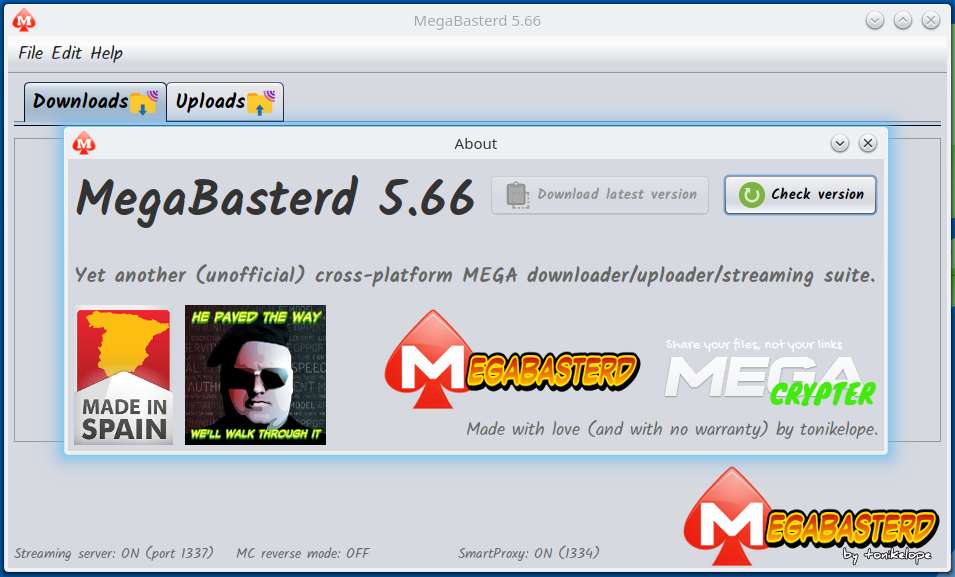
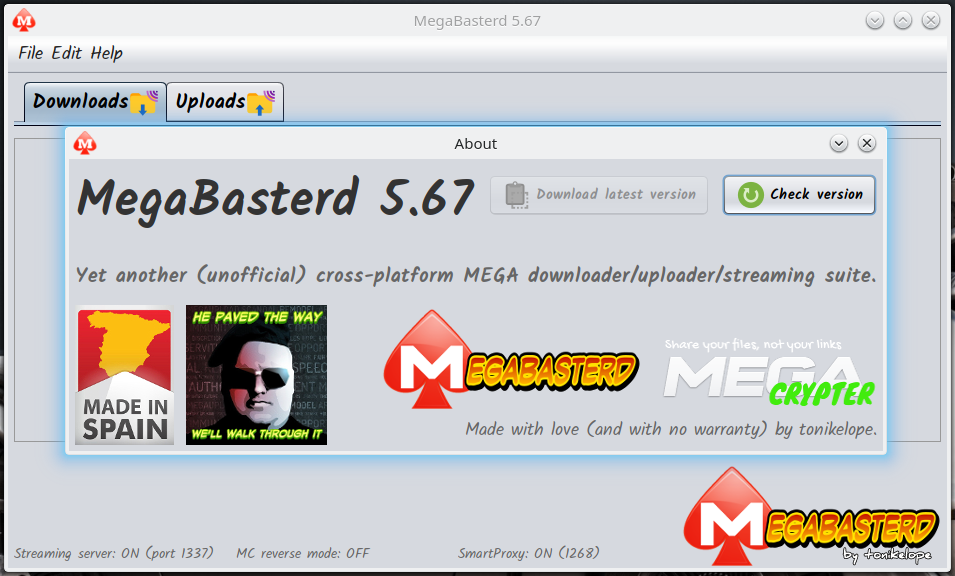
5.67
-Some translation fix

diff --git a/src/main/java/com/tonikelope/megabasterd/SettingsDialog.java b/src/main/java/com/tonikelope/megabasterd/SettingsDialog.java
@@ -678,7 +678,7 @@ public final class SettingsDialog extends javax.swing.JDialog {
         verify_file_down_checkbox.setDoubleBuffered(true);
 
         use_mega_account_down_checkbox.setFont(new java.awt.Font("Dialog", 1, 18)); // NOI18N
-        use_mega_account_down_checkbox.setText("Use MEGA accounts for download/stream");
+        use_mega_account_down_checkbox.setText("Allow to use MEGA accounts for download/streaming");
         use_mega_account_down_checkbox.addChangeListener(new javax.swing.event.ChangeListener() {
             public void stateChanged(javax.swing.event.ChangeEvent evt) {
                 use_mega_account_down_checkboxStateChanged(evt);
@@ -879,7 +879,7 @@ public final class SettingsDialog extends javax.swing.JDialog {
             downloads_panelLayout.createParallelGroup(javax.swing.GroupLayout.Alignment.LEADING)
             .addGroup(downloads_panelLayout.createSequentialGroup()
                 .addContainerGap()
-                .addComponent(downloads_scroll_pane, javax.swing.GroupLayout.DEFAULT_SIZE, 391, Short.MAX_VALUE)
+                .addComponent(downloads_scroll_pane, javax.swing.GroupLayout.DEFAULT_SIZE, 373, Short.MAX_VALUE)
                 .addContainerGap())
         );
 
@@ -970,7 +970,7 @@ public final class SettingsDialog extends javax.swing.JDialog {
                 .addGroup(uploads_panelLayout.createParallelGroup(javax.swing.GroupLayout.Alignment.BASELINE)
                     .addComponent(max_up_speed_label)
                     .addComponent(max_up_speed_spinner, javax.swing.GroupLayout.PREFERRED_SIZE, javax.swing.GroupLayout.DEFAULT_SIZE, javax.swing.GroupLayout.PREFERRED_SIZE))
-                .addContainerGap(194, Short.MAX_VALUE))
+                .addContainerGap(176, Short.MAX_VALUE))
         );
 
         jTabbedPane1.addTab("Uploads", new javax.swing.ImageIcon(getClass().getResource("/images/icons8-upload-to-ftp-30.png")), uploads_panel); // NOI18N
@@ -1151,7 +1151,7 @@ public final class SettingsDialog extends javax.swing.JDialog {
                 .addPreferredGap(javax.swing.LayoutStyle.ComponentPlacement.RELATED)
                 .addComponent(jLabel1)
                 .addPreferredGap(javax.swing.LayoutStyle.ComponentPlacement.RELATED)
-                .addComponent(mega_accounts_scrollpane, javax.swing.GroupLayout.DEFAULT_SIZE, 81, Short.MAX_VALUE)
+                .addComponent(mega_accounts_scrollpane, javax.swing.GroupLayout.DEFAULT_SIZE, 72, Short.MAX_VALUE)
                 .addPreferredGap(javax.swing.LayoutStyle.ComponentPlacement.RELATED)
                 .addGroup(accounts_panelLayout.createParallelGroup(javax.swing.GroupLayout.Alignment.BASELINE)
                     .addComponent(remove_mega_account_button)
@@ -1159,7 +1159,7 @@ public final class SettingsDialog extends javax.swing.JDialog {
                 .addPreferredGap(javax.swing.LayoutStyle.ComponentPlacement.RELATED)
                 .addComponent(elc_accounts_label)
                 .addPreferredGap(javax.swing.LayoutStyle.ComponentPlacement.RELATED)
-                .addComponent(elc_accounts_scrollpane, javax.swing.GroupLayout.DEFAULT_SIZE, 81, Short.MAX_VALUE)
+                .addComponent(elc_accounts_scrollpane, javax.swing.GroupLayout.DEFAULT_SIZE, 72, Short.MAX_VALUE)
                 .addPreferredGap(javax.swing.LayoutStyle.ComponentPlacement.RELATED)
                 .addGroup(accounts_panelLayout.createParallelGroup(javax.swing.GroupLayout.Alignment.BASELINE)
                     .addComponent(remove_elc_account_button)
@@ -1412,7 +1412,7 @@ public final class SettingsDialog extends javax.swing.JDialog {
                                 .addGroup(advanced_panelLayout.createParallelGroup(javax.swing.GroupLayout.Alignment.BASELINE)
                                     .addComponent(jLabel2)
                                     .addComponent(language_combo, javax.swing.GroupLayout.PREFERRED_SIZE, javax.swing.GroupLayout.DEFAULT_SIZE, javax.swing.GroupLayout.PREFERRED_SIZE))))
-                        .addGap(0, 18, Short.MAX_VALUE)))
+                        .addGap(0, 0, Short.MAX_VALUE)))
                 .addPreferredGap(javax.swing.LayoutStyle.ComponentPlacement.RELATED)
                 .addComponent(jSeparator1, javax.swing.GroupLayout.PREFERRED_SIZE, javax.swing.GroupLayout.DEFAULT_SIZE, javax.swing.GroupLayout.PREFERRED_SIZE)
                 .addGap(18, 18, 18)
@@ -1449,7 +1449,7 @@ public final class SettingsDialog extends javax.swing.JDialog {
             layout.createParallelGroup(javax.swing.GroupLayout.Alignment.LEADING)
             .addGroup(javax.swing.GroupLayout.Alignment.TRAILING, layout.createSequentialGroup()
                 .addContainerGap()
-                .addComponent(jTabbedPane1)
+                .addComponent(jTabbedPane1, javax.swing.GroupLayout.DEFAULT_SIZE, 440, Short.MAX_VALUE)
                 .addPreferredGap(javax.swing.LayoutStyle.ComponentPlacement.UNRELATED)
                 .addComponent(status)
                 .addPreferredGap(javax.swing.LayoutStyle.ComponentPlacement.RELATED)

diff --git a/src/main/java/com/tonikelope/megabasterd/CryptTools.java b/src/main/java/com/tonikelope/megabasterd/CryptTools.java
@@ -46,9 +46,11 @@ public final class CryptTools {
 
     public static final byte[] AES_ZERO_IV = i32a2bin(AES_ZERO_IV_I32A);
 
-    public static final int PBKDF2_SALT_BYTE_LENGTH = 16;
+    public static final int MASTER_PASSWORD_PBKDF2_SALT_BYTE_LENGTH = 16;
 
-    public static final int PBKDF2_ITERATIONS = 0x10000;
+    public static final int MASTER_PASSWORD_PBKDF2_OUTPUT_BIT_LENGTH = 256;
+
+    public static final int MASTER_PASSWORD_PBKDF2_ITERATIONS = 65536;
 
     public static Cipher genDecrypter(String algo, String mode, byte[] key, byte[] iv) throws NoSuchAlgorithmException, NoSuchPaddingException, InvalidKeyException, InvalidAlgorithmParameterException {
         SecretKeySpec skeySpec = new SecretKeySpec(key, algo);
@@ -662,20 +664,20 @@ public final class CryptTools {
         return pkey;
     }
 
-    public static byte[] PBKDF2HMACSHA256(String password, byte[] salt, int iterations) throws NoSuchAlgorithmException, InvalidKeySpecException {
+    public static byte[] PBKDF2HMACSHA256(String password, byte[] salt, int iterations, int output_length) throws NoSuchAlgorithmException, InvalidKeySpecException {
 
         SecretKeyFactory f = SecretKeyFactory.getInstance("PBKDF2WithHmacSHA256");
 
-        KeySpec ks = new PBEKeySpec(password.toCharArray(), salt, iterations, 256);
+        KeySpec ks = new PBEKeySpec(password.toCharArray(), salt, iterations, output_length);
 
         return f.generateSecret(ks).getEncoded();
     }
 
-    public static byte[] PBKDF2HMACSHA512(String password, byte[] salt, int iterations) throws NoSuchAlgorithmException, InvalidKeySpecException {
+    public static byte[] PBKDF2HMACSHA512(String password, byte[] salt, int iterations, int output_length) throws NoSuchAlgorithmException, InvalidKeySpecException {
 
         SecretKeyFactory f = SecretKeyFactory.getInstance("PBKDF2WithHmacSHA512");
 
-        KeySpec ks = new PBEKeySpec(password.toCharArray(), salt, iterations, 256);
+        KeySpec ks = new PBEKeySpec(password.toCharArray(), salt, iterations, output_length);
 
         return f.generateSecret(ks).getEncoded();
     }

diff --git a/src/main/java/com/tonikelope/megabasterd/MegaAPI.java b/src/main/java/com/tonikelope/megabasterd/MegaAPI.java
@@ -32,6 +32,7 @@ public final class MegaAPI {
     public static final int REQ_ID_LENGTH = 10;
     public static final Integer[] MEGA_ERROR_EXCEPTION_CODES = {-2, -8, -9, -10, -11, -12, -13, -14, -15, -16};
     public static final int PBKDF2_ITERATIONS = 100000;
+    public static final int PBKDF2_OUTPUT_BIT_LENGTH = 256;
 
     public static int checkMEGAError(String data) {
         String error = findFirstRegex("^\\[?(\\-[0-9]+)\\]?$", data, 1);
@@ -84,7 +85,6 @@ public final class MegaAPI {
         _req_id = genID(REQ_ID_LENGTH);
 
         Random randomno = new Random();
-
         _seqno = randomno.nextLong() & 0xffffffffL;
 
     }
@@ -169,7 +169,7 @@ public final class MegaAPI {
         fetchNodes();
     }
 
-    private void _getAccountVersion() throws Exception {
+    private void _readAccountVersionAndSalt() throws Exception {
 
         String request = "[{\"a\":\"us0\",\"user\":\"" + _email + "\"}]";
 
@@ -196,7 +196,7 @@ public final class MegaAPI {
         _email = email_split[0];
 
         if (_account_version == -1) {
-            _getAccountVersion();
+            _readAccountVersionAndSalt();
         }
 
         if (_account_version == 1) {
@@ -207,7 +207,7 @@ public final class MegaAPI {
 
         } else {
 
-            byte[] pbkdf2_key = CryptTools.PBKDF2HMACSHA512(password, MiscTools.UrlBASE642Bin(_salt), PBKDF2_ITERATIONS);
+            byte[] pbkdf2_key = CryptTools.PBKDF2HMACSHA512(password, MiscTools.UrlBASE642Bin(_salt), PBKDF2_ITERATIONS, PBKDF2_OUTPUT_BIT_LENGTH);
 
             _password_aes = bin2i32a(Arrays.copyOfRange(pbkdf2_key, 0, 16));
 
@@ -226,7 +226,7 @@ public final class MegaAPI {
         _email = email_split[0];
 
         if (_account_version == -1) {
-            _getAccountVersion();
+            _readAccountVersionAndSalt();
         }
 
         _password_aes = password_aes;

diff --git a/src/main/java/com/tonikelope/megabasterd/LabelTranslatorSingleton.java b/src/main/java/com/tonikelope/megabasterd/LabelTranslatorSingleton.java
@@ -60,7 +60,7 @@ public final class LabelTranslatorSingleton {
         _addTranslation("Remove selected", "Quitar seleccionado");
         _addTranslation("SPLIT FILE", "PARTIR ARCHIVO");
         _addTranslation("Encrypt on disk sensitive information", "Cifrar en disco datos sensibles");
-        _addTranslation("Use MEGA accounts for download/stream", "Utilizar cuentas de MEGA para descargar/subir");
+        _addTranslation("Allow to use MEGA accounts for download/streaming", "Permitir utilizar cuentas de MEGA para descargar/streaming");
         _addTranslation("Please wait...", "Por favor espera...");
         _addTranslation("CANCEL RETRY", "CANCELAR REINTENTO");
         _addTranslation("SPLITTING FILE...", "PARTIENDO ARCHIVO...");
@@ -111,7 +111,7 @@ public final class LabelTranslatorSingleton {
         _addTranslation("SAVE", "GUARDAR");
         _addTranslation("New download", "Nueva descarga");
         _addTranslation("New upload", "Nueva subida");
-        _addTranslation("New stream", "Nuevo stream");
+        _addTranslation("New streaming", "Nuevo streaming");
         _addTranslation("Split file", "Partir un archivo");
         _addTranslation("Merge file", "Juntar las partes de un archivo");
         _addTranslation("Remove all no running downloads", "Cancelar las descargas en espera");

diff --git a/src/main/java/com/tonikelope/megabasterd/MainPanel.java b/src/main/java/com/tonikelope/megabasterd/MainPanel.java
@@ -47,7 +47,7 @@ import javax.swing.UIManager;
  */
 public final class MainPanel {
 
-    public static final String VERSION = "5.66";
+    public static final String VERSION = "5.67";
     public static final int THROTTLE_SLICE_SIZE = 16 * 1024;
     public static final int DEFAULT_BYTE_BUFFER_SIZE = 16 * 1024;
     public static final int STREAMER_PORT = 1337;
@@ -629,7 +629,7 @@ public final class MainPanel {
 
             try {
 
-                _master_pass_salt = Bin2BASE64(genRandomByteArray(CryptTools.PBKDF2_SALT_BYTE_LENGTH));
+                _master_pass_salt = Bin2BASE64(genRandomByteArray(CryptTools.MASTER_PASSWORD_PBKDF2_SALT_BYTE_LENGTH));
 
                 DBTools.insertSettingValue("master_pass_salt", _master_pass_salt);
 

diff --git a/src/main/java/com/tonikelope/megabasterd/SetMasterPasswordDialog.java b/src/main/java/com/tonikelope/megabasterd/SetMasterPasswordDialog.java
@@ -233,7 +233,7 @@ public class SetMasterPasswordDialog extends javax.swing.JDialog {
 
                         if (new_pass_textfield.getPassword().length > 0) {
 
-                            _new_pass = CryptTools.PBKDF2HMACSHA256(new String(new_pass_textfield.getPassword()), BASE642Bin(_salt), CryptTools.PBKDF2_ITERATIONS);
+                            _new_pass = CryptTools.PBKDF2HMACSHA256(new String(new_pass_textfield.getPassword()), BASE642Bin(_salt), CryptTools.MASTER_PASSWORD_PBKDF2_ITERATIONS, CryptTools.MASTER_PASSWORD_PBKDF2_OUTPUT_BIT_LENGTH);
 
                             _new_pass_hash = Bin2BASE64(HashBin("SHA-1", _new_pass));
                         }

diff --git a/src/main/java/com/tonikelope/megabasterd/GetMasterPasswordDialog.java b/src/main/java/com/tonikelope/megabasterd/GetMasterPasswordDialog.java
@@ -207,7 +207,7 @@ public class GetMasterPasswordDialog extends javax.swing.JDialog {
             @Override
             public void run() {
                 try {
-                    byte[] pass = CryptTools.PBKDF2HMACSHA256(new String(current_pass_textfield.getPassword()), BASE642Bin(_salt), CryptTools.PBKDF2_ITERATIONS);
+                    byte[] pass = CryptTools.PBKDF2HMACSHA256(new String(current_pass_textfield.getPassword()), BASE642Bin(_salt), CryptTools.MASTER_PASSWORD_PBKDF2_ITERATIONS, CryptTools.MASTER_PASSWORD_PBKDF2_OUTPUT_BIT_LENGTH);
 
                     String pass_hash = Bin2BASE64(HashBin("SHA-1", pass));
 

diff --git a/src/main/java/com/tonikelope/megabasterd/MainPanelView.java b/src/main/java/com/tonikelope/megabasterd/MainPanelView.java
@@ -486,7 +486,7 @@ public final class MainPanelView extends javax.swing.JFrame {
 
         new_stream_menu.setFont(new java.awt.Font("Dialog", 0, 18)); // NOI18N
         new_stream_menu.setIcon(new javax.swing.ImageIcon(getClass().getResource("/images/icons8-video-playlist-30.png"))); // NOI18N
-        new_stream_menu.setText("New stream");
+        new_stream_menu.setText("New streaming");
         new_stream_menu.addActionListener(new java.awt.event.ActionListener() {
             public void actionPerformed(java.awt.event.ActionEvent evt) {
                 new_stream_menuActionPerformed(evt);

diff --git a/src/main/java/com/tonikelope/megabasterd/MegaCrypterAPI.java b/src/main/java/com/tonikelope/megabasterd/MegaCrypterAPI.java
@@ -250,7 +250,7 @@ public final class MegaCrypterAPI {
 
                         try {
 
-                            info_key = PBKDF2HMACSHA256(password, salt, (int) Math.pow(2, iterations));
+                            info_key = PBKDF2HMACSHA256(password, salt, (int) Math.pow(2, iterations), 256);
 
                             decrypter = genDecrypter("AES", "AES/CBC/PKCS5Padding", info_key, iv);
 
